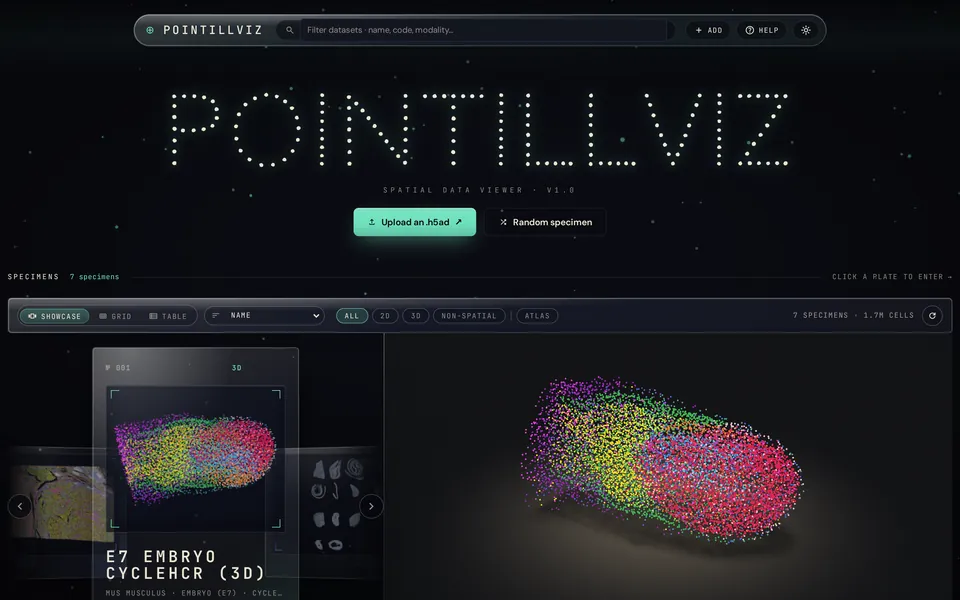
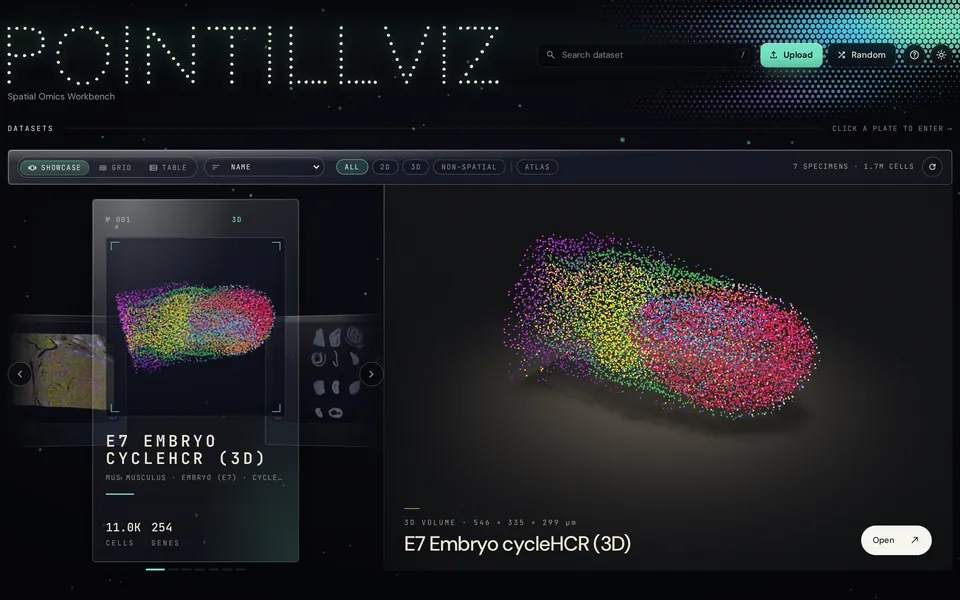
Installation page: the new home page, and Upload as it is now called
The picture shows the new top bar, and the words say Upload, the one button left.

diff --git a/index.html b/index.html
@@ -114,7 +114,7 @@
 <div class="dv-groups">
 <section class="dv-group dv-group--n2" id="start" aria-labelledby="start-h">
   <header class="dv-group__head"><h2 class="dv-group__name" id="start-h" style="--dv-name: linear-gradient(90deg, var(--dv-pink), var(--dv-mint))">Start</h2><span class="dv-group__dots" aria-hidden="true"><i data-tone="pink"></i><i data-tone="mint"></i></span></header>
-  <div class="dv-group__cards"><article class="pv-card pv-card--link dv-card" data-tone="pink"><div class="pv-card__media dv-card__media" data-theme="dark"><img src="assets/media/installation-640.webp" srcset="assets/media/installation-640.webp 640w, assets/media/installation-960.webp 960w, assets/media/installation-1280.webp 1280w, assets/media/installation-1600.webp 1600w" sizes="(min-width: 1200px) 456px, (min-width: 1024px) 33vw, (min-width: 600px) 44vw, 112px" width="640" height="400" alt="The PointillViz home page in a browser: the dotted PointillViz wordmark, Upload an .h5ad and Random specimen, and the Showcase of seven specimens with its first, a 3D mouse embryo, on the turntable." decoding="async" loading="lazy"></div><div class="dv-card__body"><h3 class="dv-card__title"><a class="pv-card__link" href="installation/">Installation</a></h3></div></article><article class="pv-card pv-card--link dv-card" data-tone="mint"><div class="pv-card__media dv-card__media" data-theme="dark"><img src="assets/media/importing-640.webp" srcset="assets/media/importing-640.webp 640w, assets/media/importing-960.webp 960w, assets/media/importing-1280.webp 1280w, assets/media/importing-1600.webp 1600w" sizes="(min-width: 1200px) 456px, (min-width: 1024px) 33vw, (min-width: 600px) 44vw, 112px" width="640" height="400" alt="The import wizard at its Map fields step: the Spatial panel set to 2D spatial, with the spatial obsm key and pixel units, and the Cells panel with a cell-type column of 73 types, an automatic palette and the hierarchy options." decoding="async" loading="lazy"></div><div class="dv-card__body"><h3 class="dv-card__title"><a class="pv-card__link" href="importing/">Importing</a></h3></div></article></div>
+  <div class="dv-group__cards"><article class="pv-card pv-card--link dv-card" data-tone="pink"><div class="pv-card__media dv-card__media" data-theme="dark"><img src="assets/media/installation-640.webp" srcset="assets/media/installation-640.webp 640w, assets/media/installation-960.webp 960w, assets/media/installation-1280.webp 1280w, assets/media/installation-1600.webp 1600w" sizes="(min-width: 1200px) 456px, (min-width: 1024px) 33vw, (min-width: 600px) 44vw, 112px" width="640" height="400" alt="The PointillViz home page in a browser: the dotted PointillViz wordmark, the search, Upload and Random, and the Showcase of seven specimens with its first, a 3D mouse embryo, on the turntable." decoding="async" loading="lazy"></div><div class="dv-card__body"><h3 class="dv-card__title"><a class="pv-card__link" href="installation/">Installation</a></h3></div></article><article class="pv-card pv-card--link dv-card" data-tone="mint"><div class="pv-card__media dv-card__media" data-theme="dark"><img src="assets/media/importing-640.webp" srcset="assets/media/importing-640.webp 640w, assets/media/importing-960.webp 960w, assets/media/importing-1280.webp 1280w, assets/media/importing-1600.webp 1600w" sizes="(min-width: 1200px) 456px, (min-width: 1024px) 33vw, (min-width: 600px) 44vw, 112px" width="640" height="400" alt="The import wizard at its Map fields step: the Spatial panel set to 2D spatial, with the spatial obsm key and pixel units, and the Cells panel with a cell-type column of 73 types, an automatic palette and the hierarchy options." decoding="async" loading="lazy"></div><div class="dv-card__body"><h3 class="dv-card__title"><a class="pv-card__link" href="importing/">Importing</a></h3></div></article></div>
 </section><section class="dv-group dv-group--n4" id="data" aria-labelledby="data-h">
   <header class="dv-group__head"><h2 class="dv-group__name" id="data-h" style="--dv-name: linear-gradient(90deg, var(--dv-gold), var(--dv-violet), var(--dv-cyan), var(--dv-pink))">Data</h2><span class="dv-group__dots" aria-hidden="true"><i data-tone="gold"></i><i data-tone="violet"></i><i data-tone="cyan"></i><i data-tone="pink"></i></span></header>
   <div class="dv-group__cards"><article class="pv-card pv-card--link dv-card" data-tone="gold" data-case="2d"><div class="pv-card__media dv-card__media" data-theme="dark"><img src="assets/media/2d-data-640.webp" srcset="assets/media/2d-data-640.webp 640w, assets/media/2d-data-960.webp 960w, assets/media/2d-data-1280.webp 1280w, assets/media/2d-data-1600.webp 1600w" sizes="(min-width: 1200px) 210px, (min-width: 1024px) 33vw, (min-width: 600px) 44vw, 112px" width="640" height="400" alt="The Lens over a mouse colon section coloured by cell type: its loupe on the mucosa, and the Under the lens panel listing the cell types in view and in the loupe." decoding="async" loading="lazy"><video class="dv-card__loop" muted playsinline loop preload="none" aria-hidden="true" tabindex="-1" data-src="assets/media/2d-data-loop.mp4"></video></div><div class="dv-card__body"><p class="pv-caselabel__title dv-caseline " data-case="2d">2D · Section</p><h3 class="dv-card__title"><a class="pv-card__link" href="2d-data/">2D data</a></h3></div></article><article class="pv-card pv-card--link dv-card" data-tone="violet" data-case="3d"><div class="pv-card__media dv-card__media" data-theme="dark"><img src="assets/media/3d-data-card-640.webp" srcset="assets/media/3d-data-card-640.webp 640w, assets/media/3d-data-card-960.webp 960w" sizes="(min-width: 1200px) 210px, (min-width: 1024px) 33vw, (min-width: 600px) 44vw, 112px" width="640" height="400" alt="A HER2⁺ breast carcinoma imaged by 3D imaging mass cytometry, drawn as a volume of cells coloured by HER2, with the Scale and orientation panel and its X, Y and Z bars." decoding="async" loading="lazy"><video class="dv-card__loop" muted playsinline loop preload="none" aria-hidden="true" tabindex="-1" data-src="assets/media/3d-data-loop.mp4"></video></div><div class="dv-card__body"><p class="pv-caselabel__title dv-caseline " data-case="3d">3D · Volume</p><h3 class="dv-card__title"><a class="pv-card__link" href="3d-data/">3D data</a></h3></div></article><article class="pv-card pv-card--link dv-card" data-tone="cyan" data-case="atlas"><div class="pv-card__media dv-card__media" data-theme="dark"><img src="assets/media/atlases-640.webp" srcset="assets/media/atlases-640.webp 640w, assets/media/atlases-960.webp 960w, assets/media/atlases-1280.webp 1280w, assets/media/atlases-1600.webp 1600w" sizes="(min-width: 1200px) 210px, (min-width: 1024px) 33vw, (min-width: 600px) 44vw, 112px" width="640" height="400" alt="Fourteen mouse tissues of one tissue microarray composed into one montage, every cell coloured by its Epcam level: the epithelia of the small intestine, colon and salivary gland bright orange and magenta, the stomach, bladder and kidney a dimmer purple, and brain, lymph node, liver and lung grey." decoding="async" loading="lazy"></div><div class="dv-card__body"><p class="pv-caselabel__title dv-caseline " data-case="atlas">Atlas · Cohort</p><h3 class="dv-card__title"><a class="pv-card__link" href="atlases/">Atlases</a></h3></div></article><article class="pv-card pv-card--link dv-card" data-tone="pink" data-case="omics"><div class="pv-card__media dv-card__media" data-theme="dark"><img src="assets/media/multimodal-640.webp" srcset="assets/media/multimodal-640.webp 640w, assets/media/multimodal-1280.webp 1280w" sizes="(min-width: 1200px) 210px, (min-width: 1024px) 33vw, (min-width: 600px) 44vw, 112px" width="640" height="400" alt="Pde10a in RNA, ATAC, H3K27ac and H3K27me3, four maps of the same mouse brain section side by side." decoding="async" loading="lazy"></div><div class="dv-card__body"><p class="pv-caselabel__title dv-caseline " data-case="omics">Multi-omics</p><h3 class="dv-card__title"><a class="pv-card__link" href="multimodal/">Multimodal</a></h3></div></article></div>

diff --git a/installation/index.html b/installation/index.html
@@ -17,7 +17,7 @@
 <meta property="og:image" content="https://docs.pointillviz.com/assets/media/og/installation.jpg">
 <meta property="og:image:width" content="1200">
 <meta property="og:image:height" content="630">
-<meta property="og:image:alt" content="The PointillViz home page in a browser: the dotted PointillViz wordmark, Upload an .h5ad and Random specimen, and the Showcase of seven specimens with its first, a 3D mouse embryo, on the turntable.">
+<meta property="og:image:alt" content="The PointillViz home page in a browser: the dotted PointillViz wordmark, the search, Upload and Random, and the Showcase of seven specimens with its first, a 3D mouse embryo, on the turntable.">
 <meta name="twitter:card" content="summary_large_image">
 <script>try{var t=localStorage.getItem('pv-theme');if(t==='light'||t==='dark')document.documentElement.setAttribute('data-theme',t)}catch(e){}</script>
 <script>(function(h){var o;try{o=localStorage.getItem('pv-docs-os')}catch(e){}if(o!=='unix'&&o!=='win'){var n=navigator,p=(n.userAgentData&&n.userAgentData.platform)||n.platform||n.userAgent||'';o=/win/i.test(p)?'win':'unix'}h.setAttribute('data-os',o)})(document.documentElement)</script>
@@ -143,7 +143,7 @@
 <p class="pv-lede dv-summary">Install pixi and <span translate="no">PointillViz</span>, start the viewer, and sign in to an AI runtime for the Assistant.</p>
 
 </header>
-<figure class="pv-figure dv-lead"><div class="pv-figure__stage dv-lead__stage dv-lead__stage--mat" data-theme="dark"><img src="../assets/media/installation-1280.webp" srcset="../assets/media/installation-640.webp 640w, ../assets/media/installation-960.webp 960w, ../assets/media/installation-1280.webp 1280w, ../assets/media/installation-1600.webp 1600w" sizes="(min-width: 1200px) 760px, (min-width: 1024px) calc(100vw - 360px), calc(100vw - 32px)" width="1280" height="800" alt="The PointillViz home page in a browser: the dotted PointillViz wordmark, Upload an .h5ad and Random specimen, and the Showcase of seven specimens with its first, a 3D mouse embryo, on the turntable." decoding="async" fetchpriority="high"></div><figcaption class="pv-figure__caption"><span class="dv-lead__caption">The home page at http://localhost:8090 once <span translate="no">PointillViz</span> runs: each dataset you add is a specimen in the Showcase.</span><span class="pv-figure__meta">pixi&nbsp;run&nbsp;serve&nbsp;· localhost:8090</span></figcaption></figure>
+<figure class="pv-figure dv-lead"><div class="pv-figure__stage dv-lead__stage dv-lead__stage--mat" data-theme="dark"><img src="../assets/media/installation-1280.webp" srcset="../assets/media/installation-640.webp 640w, ../assets/media/installation-960.webp 960w, ../assets/media/installation-1280.webp 1280w, ../assets/media/installation-1600.webp 1600w" sizes="(min-width: 1200px) 760px, (min-width: 1024px) calc(100vw - 360px), calc(100vw - 32px)" width="1280" height="800" alt="The PointillViz home page in a browser: the dotted PointillViz wordmark, the search, Upload and Random, and the Showcase of seven specimens with its first, a 3D mouse embryo, on the turntable." decoding="async" fetchpriority="high"></div><figcaption class="pv-figure__caption"><span class="dv-lead__caption">The home page at http://localhost:8090 once <span translate="no">PointillViz</span> runs: each dataset you add is a specimen in the Showcase.</span><span class="pv-figure__meta">pixi&nbsp;run&nbsp;serve&nbsp;· localhost:8090</span></figcaption></figure>
 <details class="dv-toc-inline"><summary><span>On this page</span><span class="dv-toc-inline__n">6</span></summary><ol><li><a href="#what-you-need">What you need</a></li><li><a href="#install-pixi">Install pixi</a></li><li><a href="#install-pointillviz">Install PointillViz</a></li><li><a href="#run-pointillviz">Run PointillViz</a></li><li><a href="#choose-a-runtime-for-the-assistant">Choose a runtime for the Assistant</a></li><li><a href="#add-your-data">Add your data</a></li></ol></details>
 <div class="dv-body dv-body--written pv-prose">
 <section class="dv-sec">
@@ -223,7 +223,7 @@ pixi install</code></pre></figure>
 </section>
 <section class="dv-sec">
   <div class="dv-sec__head"><h2 class="dv-sec__title" id="add-your-data">Add your data</h2><a class="dv-anchor" href="#add-your-data" aria-label="Link to this section: Add your data"></a></div>
-<p>Open the viewer, press <strong>Upload an .h5ad</strong> or <strong>+ Add</strong>, and drop in the file: the import wizard maps its fields onto the viewer and converts it in the background. See <a href="../importing/">Importing</a>.</p>
+<p>Open the viewer, press <strong>Upload</strong>, and drop in the file: the import wizard maps its fields onto the viewer and converts it in the background. See <a href="../importing/">Importing</a>.</p>
 </section>
 </div>
 <nav class="dv-pager" aria-label="Previous and next"><span class="dv-pager__gap" aria-hidden="true"></span><a class="pv-card dv-pager__link dv-pager__link--next" href="../importing/" rel="next"><span class="pv-label">Next</span><span class="dv-pager__title"><span>Importing</span><svg class="dv-icon dv-pager__icon" viewBox="0 0 20 20" fill="none" stroke="currentColor" stroke-width="1.6" stroke-linecap="round" stroke-linejoin="round" aria-hidden="true"><path d="M4 10h11.5M11 5l5 5-5 5"/></svg></span><span class="dv-pager__group">Start</span></a></nav>

diff --git a/data/tutorials/installation.html b/data/tutorials/installation.html
@@ -92,4 +92,4 @@ pixi install</code></pre>
 </div>
 
 <h2>Add your data</h2>
-<p>Open the viewer, press <strong>Upload an .h5ad</strong> or <strong>+ Add</strong>, and drop in the file: the import wizard maps its fields onto the viewer and converts it in the background. See <a href="../importing/">Importing</a>.</p>
+<p>Open the viewer, press <strong>Upload</strong>, and drop in the file: the import wizard maps its fields onto the viewer and converts it in the background. See <a href="../importing/">Importing</a>.</p>
